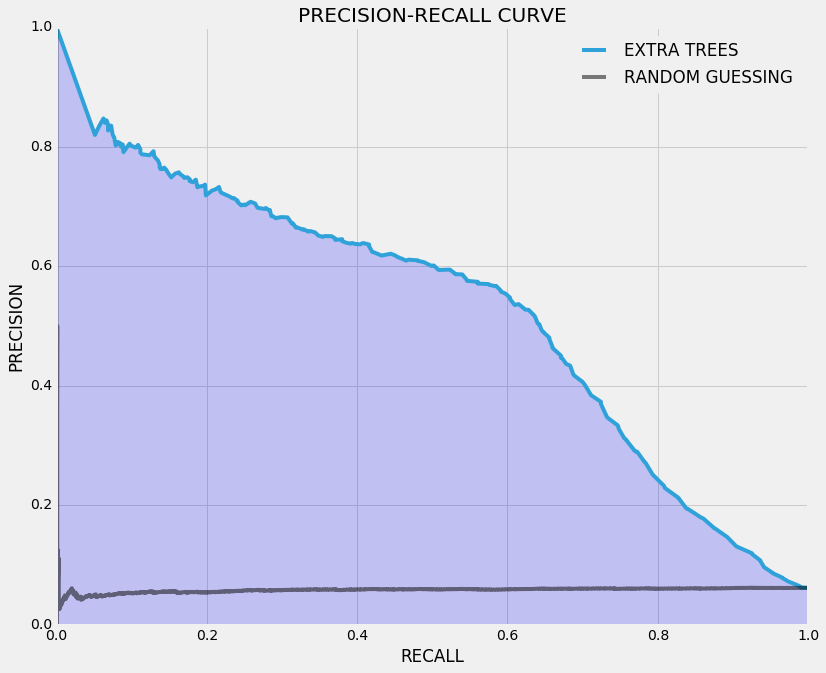
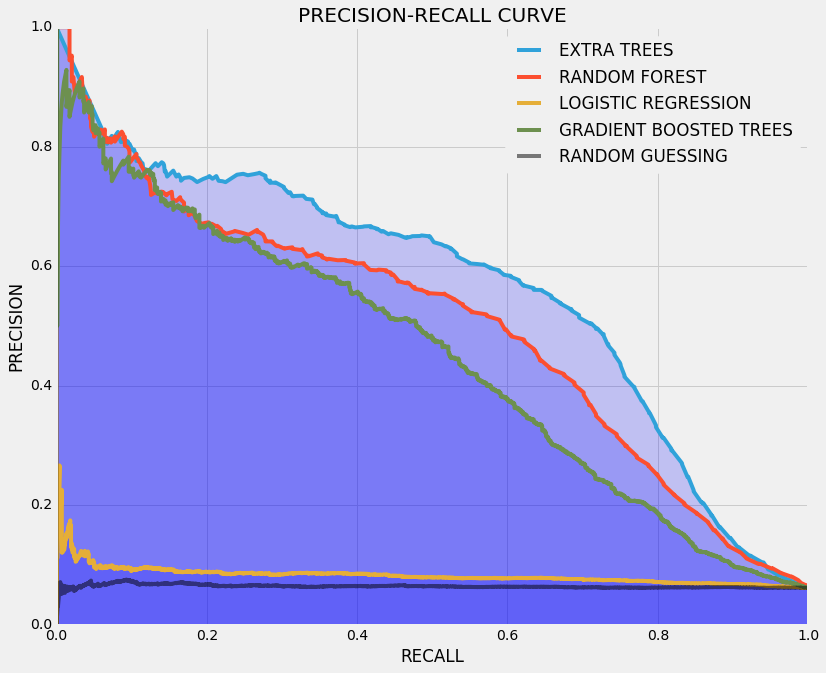
adding class_balance to extra trees

diff --git a/code/model.py b/code/model.py
@@ -60,15 +60,13 @@ def main():
 
     # train an extra trees model
     # used gridsearch to select the best parameters
-    etc = ExtraTreesClassifier(n_estimators=200, n_jobs=-1)\
-                              .fit(X_subtrain, y_subtrain)
+    etc = ExtraTreesClassifier(n_estimators=200, class_weight='balanced',
+                               n_jobs=-1).fit(X_subtrain, y_subtrain)
     etc_prob = etc.predict_proba(X_subtest)[:, 1]
 
-#    probs_list = [etc_prob, rfc_prob, logreg_prob, gbc_prob]
-#    model_names = ['EXTRA TREES', 'RANDOM FOREST', 'LOGISTIC REGRESSION',
-#                   'GRADIENT BOOSTED TREES']
-    probs_list = [etc_prob]
-    model_names = ['EXTRA TREES']
+    probs_list = [etc_prob, rfc_prob, logreg_prob, gbc_prob]
+    model_names = ['EXTRA TREES', 'RANDOM FOREST', 'LOGISTIC REGRESSION',
+                   'GRADIENT BOOSTED TREES']
     plot_roc_pr(y_subtest, probs_list, model_names, save_plot=True)
     plot_important_features(etc, X_subtest, save_plot=True,
                             plot_name='feature_importances.png')
@@ -209,7 +207,7 @@ def plot_important_features(est, X, save_plot=False,
 
 
 # calculates the area under the precision-recall curve
-def print_scores(y_true, prob):
+def pr_auc(y_true, prob):
     precision, recall, thres = precision_recall_curve(y_true, prob)
     return auc(recall, precision)
 
